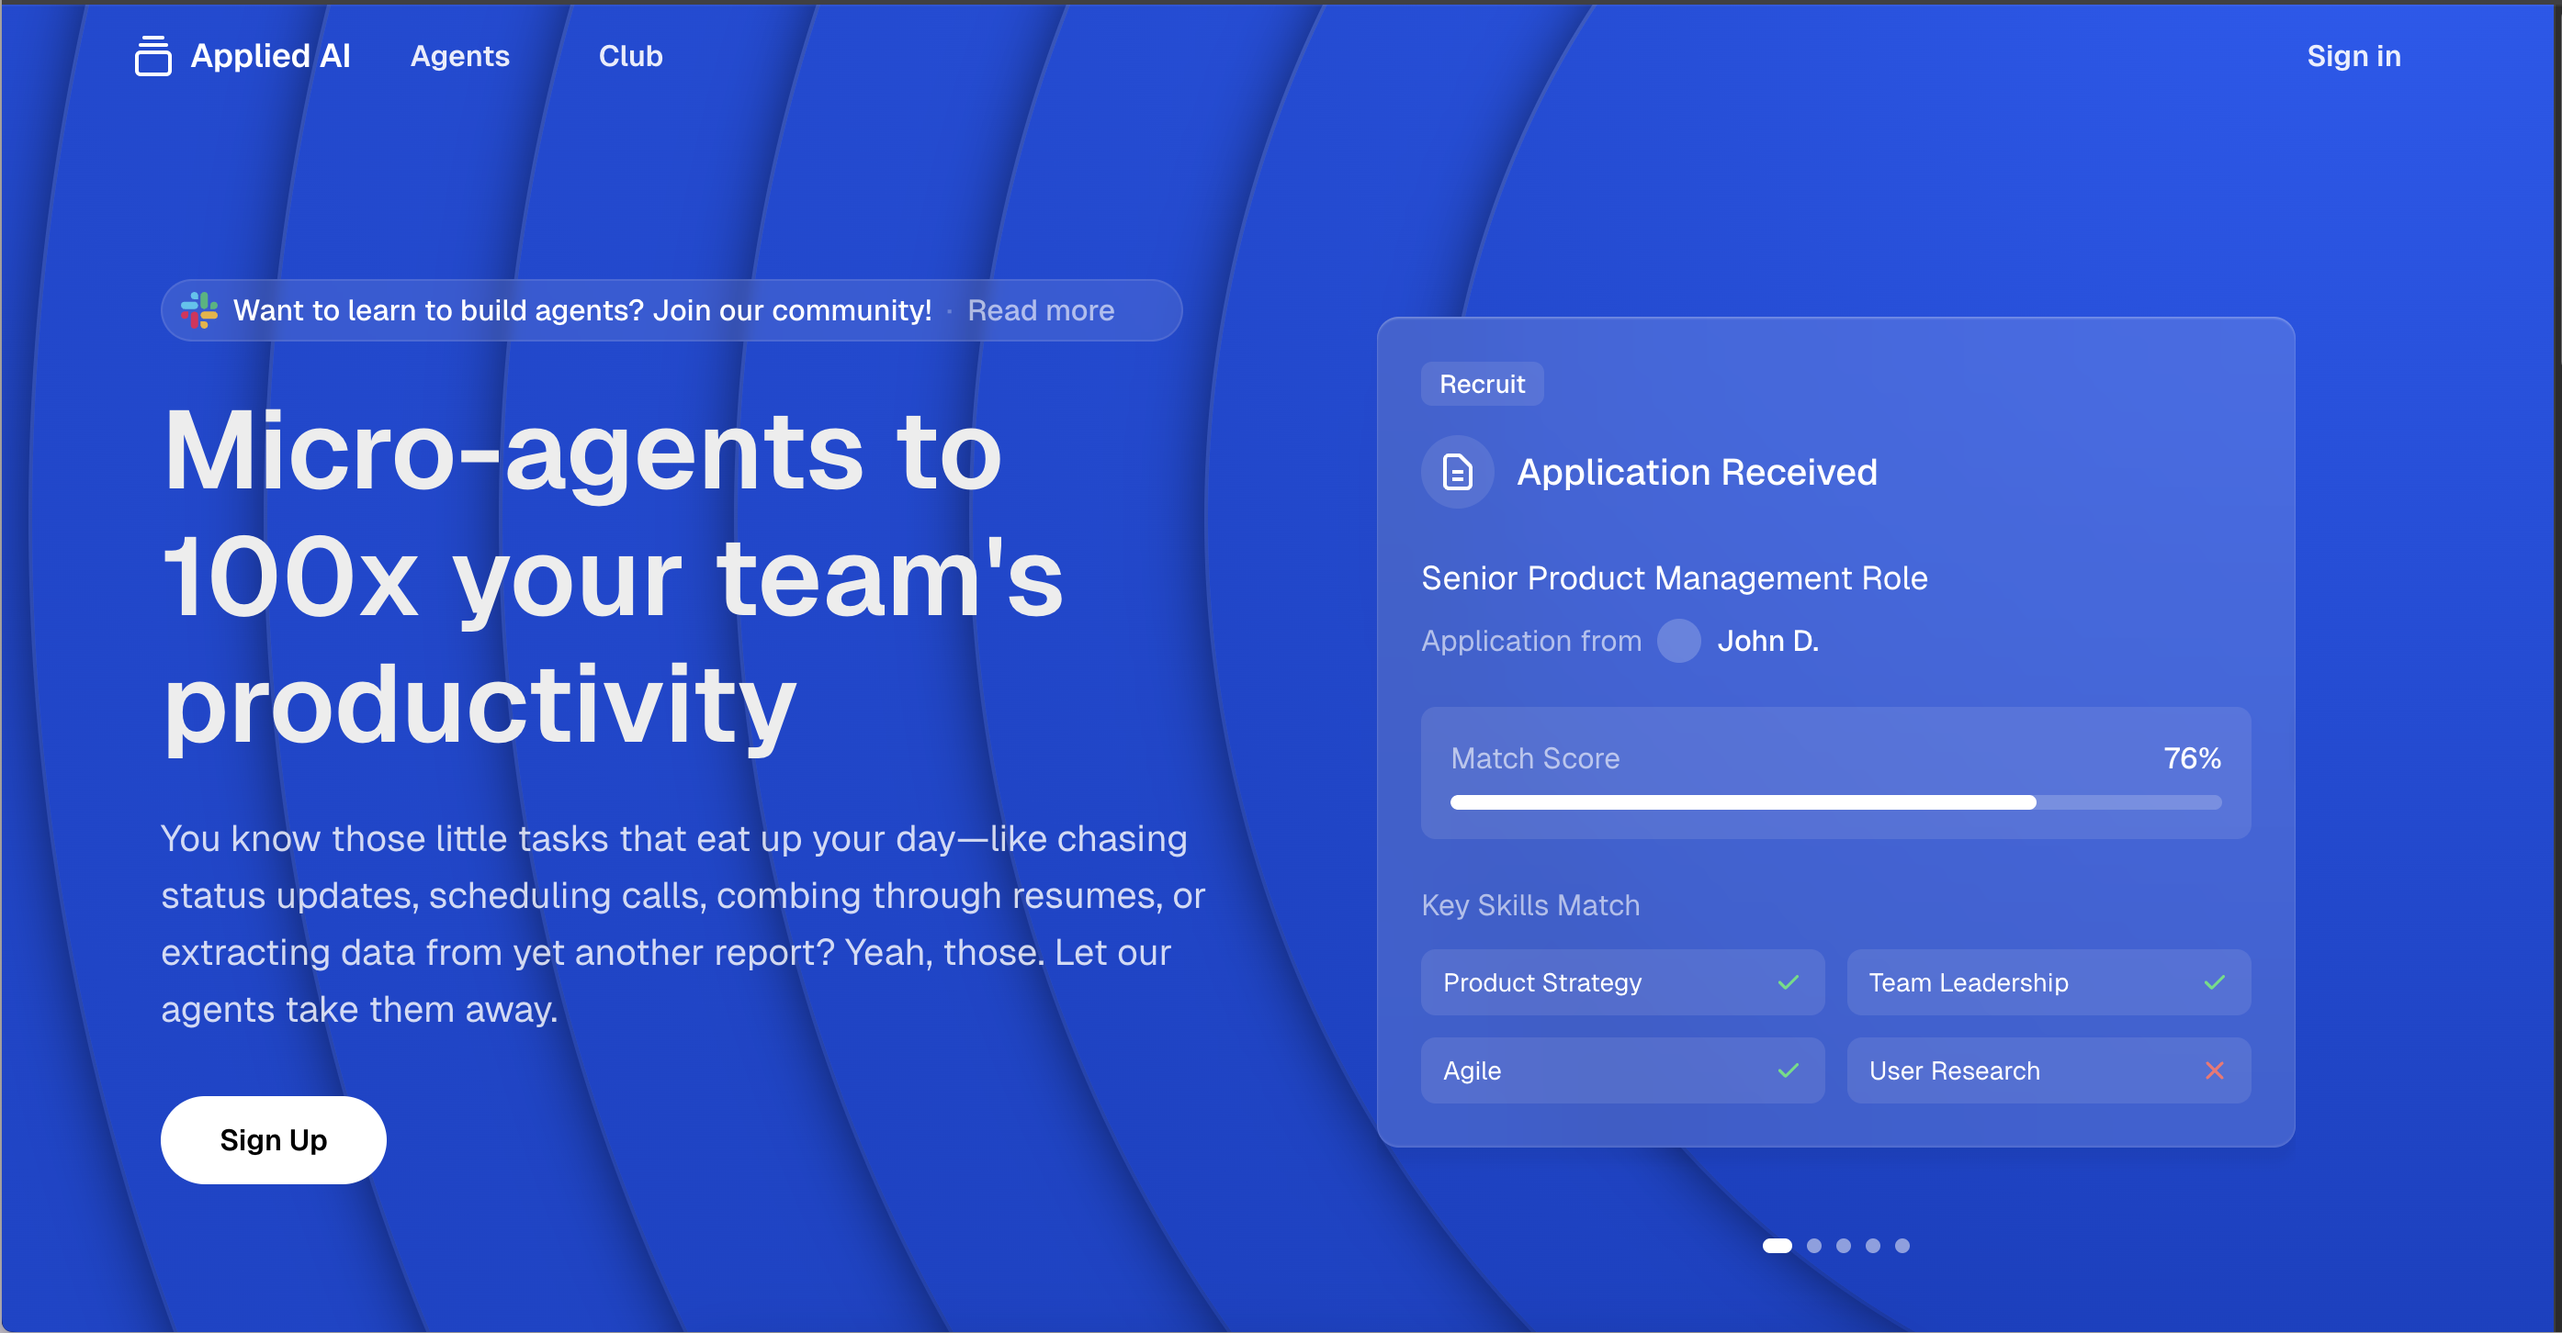
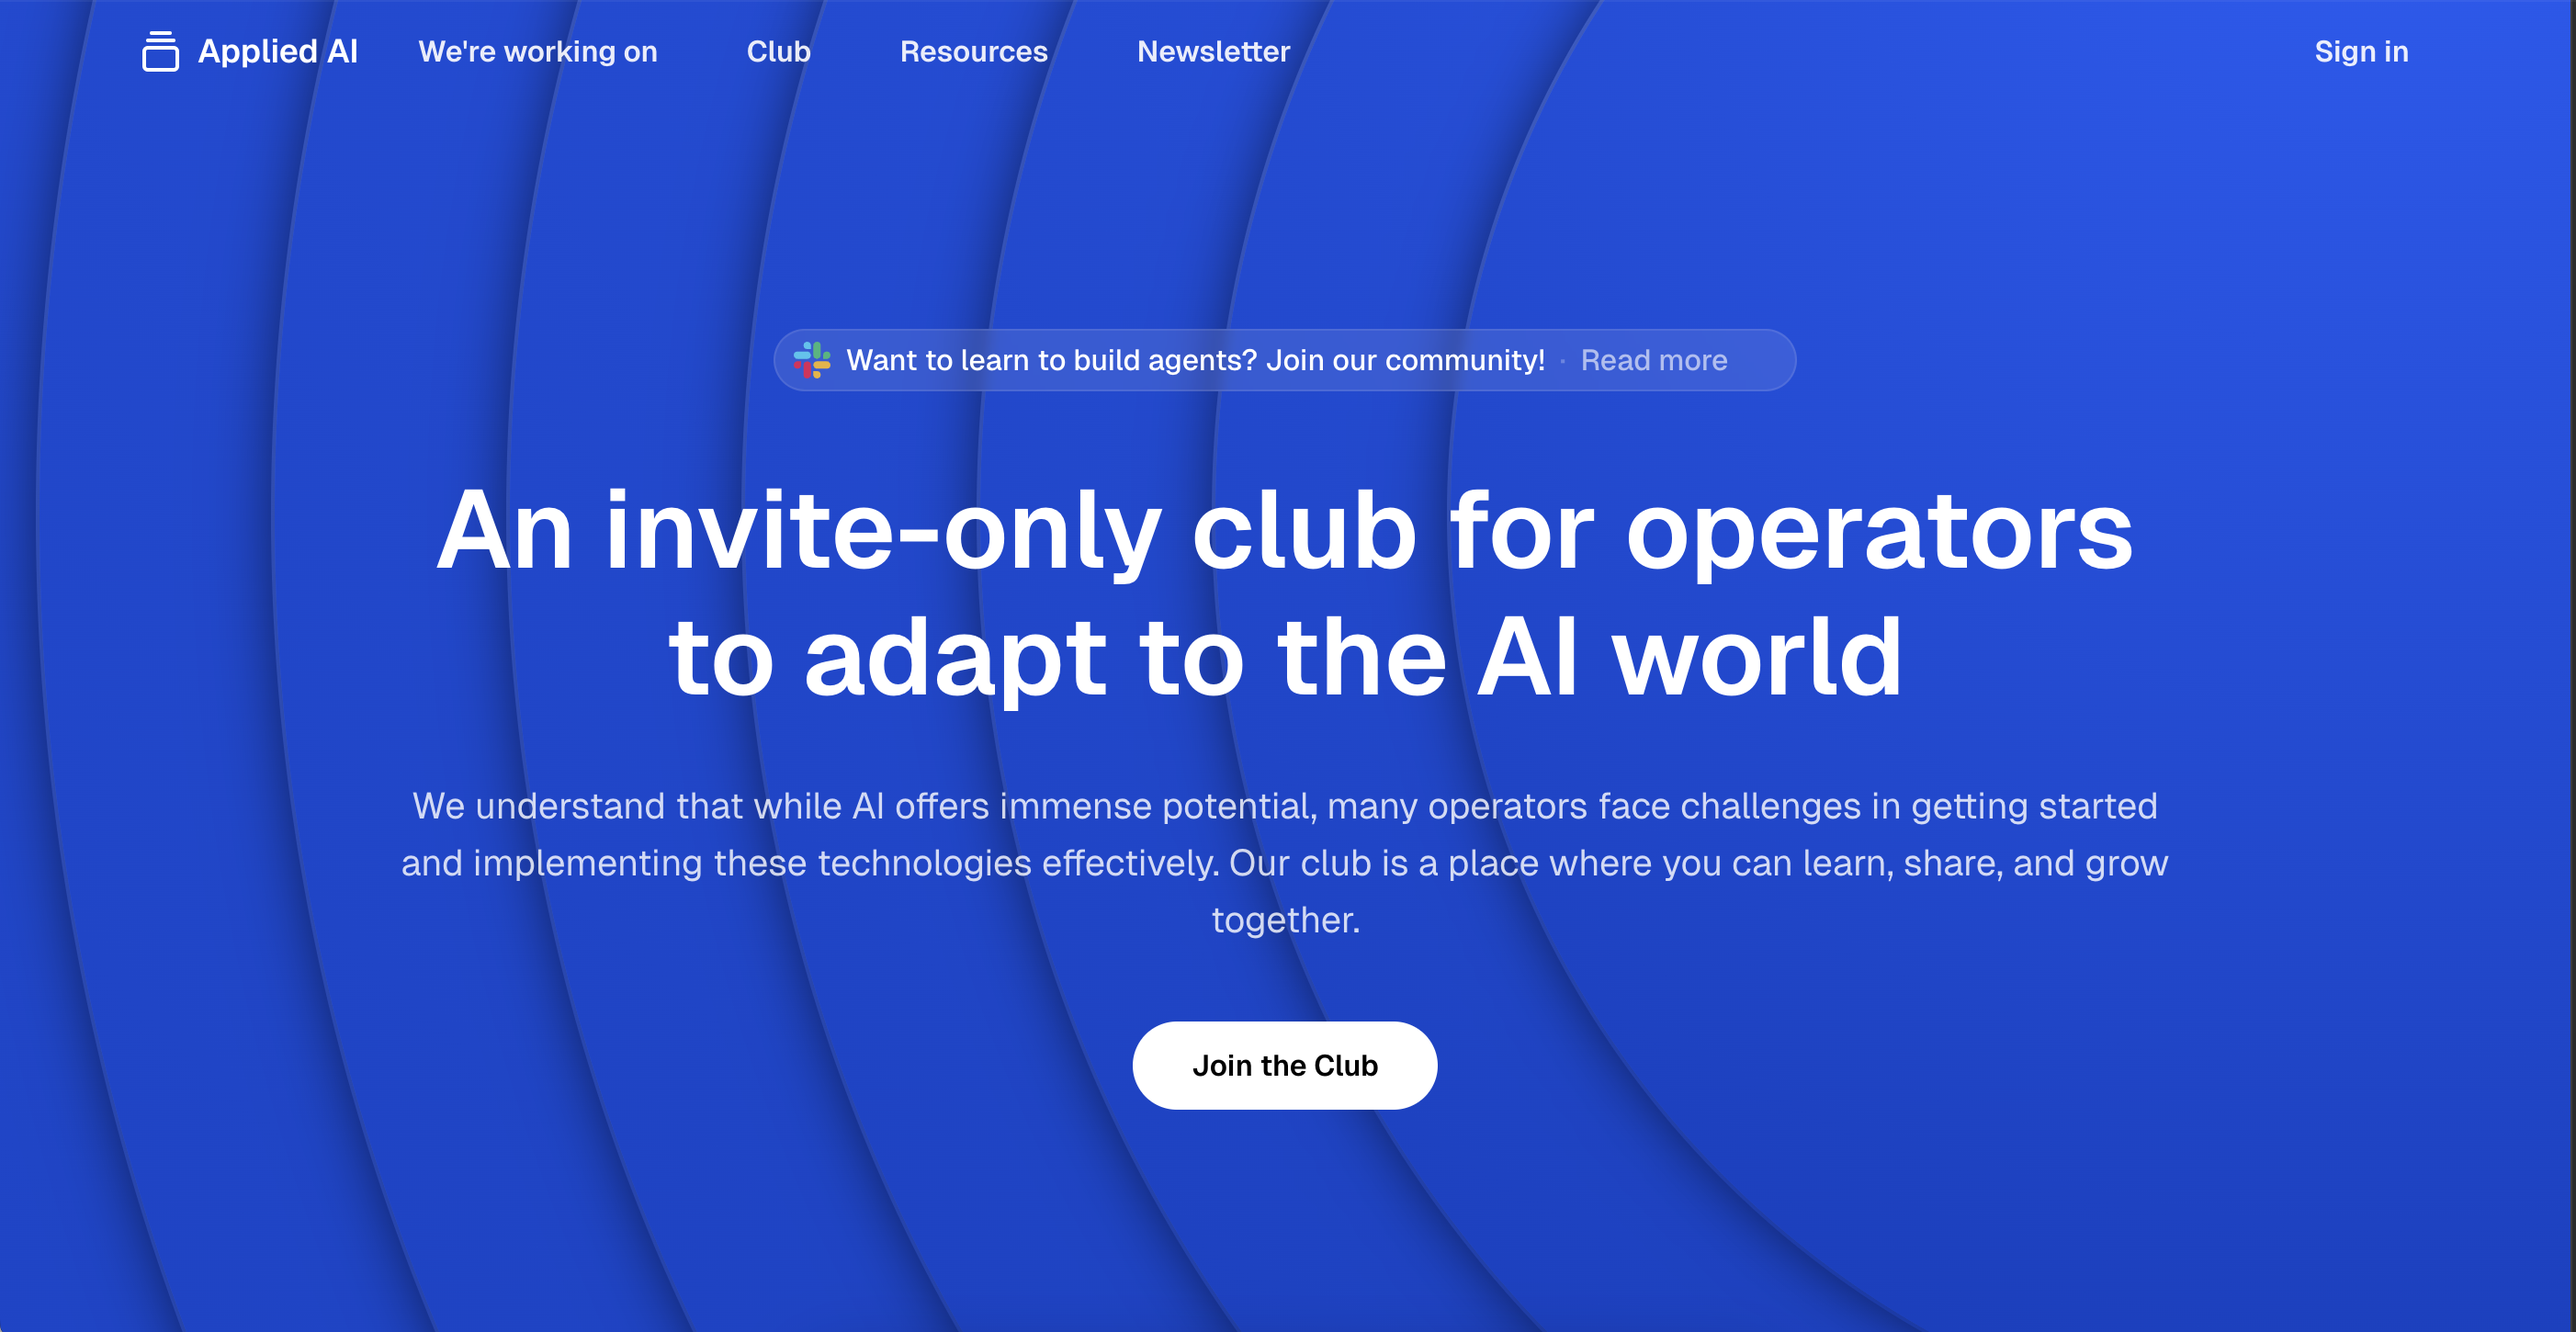
Metadata fixes

diff --git a/components/Header.tsx b/components/Header.tsx
@@ -313,7 +313,7 @@ const Header = ({ theme = 'light', isScrolled = false, disableSticky }: HeaderPr
             {/* Right side buttons */}
             <div className="flex items-center text-md font-semibold shrink-0 ml-4">
               <Link 
-                href="https://dashboard.appliedai.club/" 
+                href="/club" 
                 target="_blank"
                 rel="noopener noreferrer"
                 className={clsx(
@@ -321,7 +321,7 @@ const Header = ({ theme = 'light', isScrolled = false, disableSticky }: HeaderPr
                   theme === 'light' ? 'text-gray-900/90' : 'text-white/90'
                 )}
               >
-                Sign in
+                Join the Club
               </Link>
               
               {/* Hamburger menu button - mobile only */}

diff --git a/app/metadata.ts b/app/metadata.ts
@@ -1,6 +1,6 @@
 export const siteConfig = {
-  name: "AppliedAI - Your AI productivity unlock",
-  description: "A suite of micro-agents that can 100x your team's productivity.",
+  name: "AppliedAI - AI for Operators",
+  description: "An invite-only club for operators to adapt to the AI world",
   url: "https://appliedai.club",
   ogImage: "/images/og/default.png",
   links: {
